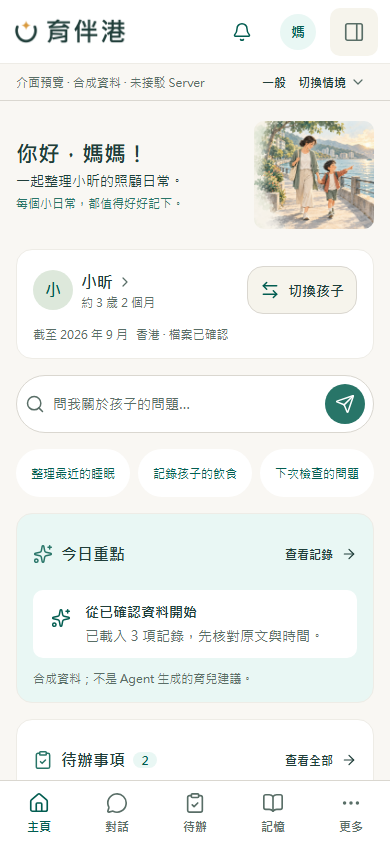
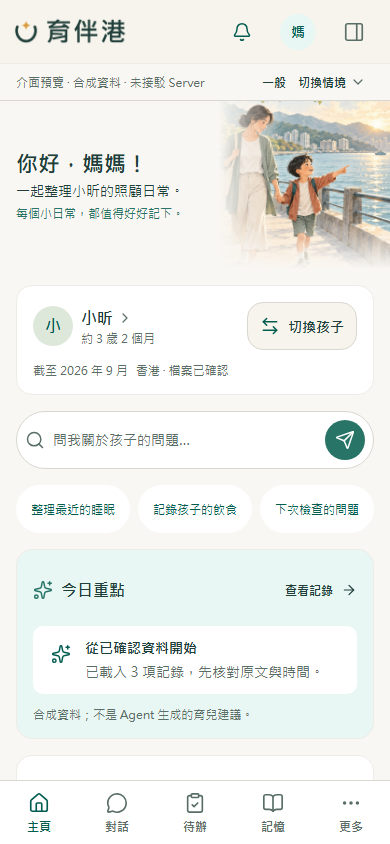
Use faded mobile hero background and unified shell surfaces

diff --git a/frontend/src/components/MobileHomeDashboard.tsx b/frontend/src/components/MobileHomeDashboard.tsx
@@ -1,6 +1,7 @@
-import { useState } from "react";
+import { useId, useState } from "react";
 import { Image, Pressable, ScrollView, StyleSheet, View, useWindowDimensions } from "react-native";
 import { Text } from "react-native-paper";
+import Svg, { Defs, LinearGradient, Rect, Stop } from "react-native-svg";
 import { AppIcon } from "./AppIcon";
 import type { HomeActions, HomeViewModel } from "../view-model";
 import { chineseFont, colors, mobileIcons, mobileLayout, mobileType, radius, spacing } from "../theme";
@@ -26,19 +27,37 @@ export function MobileHomeDashboard({ model, actions }: { model: HomeViewModel; 
   const viewportWidth = useWindowDimensions().width;
   const [quickWidth, setQuickWidth] = useState(0);
   const [childWidth, setChildWidth] = useState(0);
+  const greetingFadeId = useId();
+  const greetingBottomFadeId = `${greetingFadeId}-bottom`;
   const fourQuickColumns = quickWidth >= 290;
   const shortSwitch = childWidth ? childWidth < 300 : viewportWidth < 360;
   const splitAge = Boolean(child?.ageSummaryLabel && child?.ageReferenceLabel);
 
   return <ScrollView style={styles.scroll} contentContainerStyle={styles.page} keyboardShouldPersistTaps="handled">
-    <View style={styles.greeting}>
+    <View testID="mobile-home-greeting" style={styles.greeting}>
+      <View aria-hidden importantForAccessibility="no-hide-descendants" pointerEvents="none" style={StyleSheet.absoluteFill}>
+        <Image source={harbourArt} accessible={false} resizeMode="cover" style={styles.greetingArt} />
+        <Svg width="100%" height="100%" style={StyleSheet.absoluteFill} aria-hidden focusable={false}>
+          <Defs>
+            <LinearGradient id={greetingFadeId} x1={0} y1={0} x2={1} y2={0}>
+              <Stop offset={0} stopColor={colors.canvas} stopOpacity={1} />
+              <Stop offset={0.56} stopColor={colors.canvas} stopOpacity={1} />
+              <Stop offset={0.72} stopColor={colors.canvas} stopOpacity={0} />
+              <Stop offset={1} stopColor={colors.canvas} stopOpacity={0} />
+            </LinearGradient>
+            <LinearGradient id={greetingBottomFadeId} x1={0} y1={0} x2={0} y2={1}>
+              <Stop offset={0.7} stopColor={colors.canvas} stopOpacity={0} />
+              <Stop offset={1} stopColor={colors.canvas} stopOpacity={1} />
+            </LinearGradient>
+          </Defs>
+          <Rect width="100%" height="100%" fill={`url(#${greetingFadeId})`} />
+          <Rect width="100%" height="100%" fill={`url(#${greetingBottomFadeId})`} />
+        </Svg>
+      </View>
       <View style={styles.greetingCopy}>
         <Text accessibilityRole="header" style={styles.heading}>你好，{model.caregiverName}！</Text>
         <Text style={styles.subtitle}>{child ? `一起整理${child.displayName}的照顧日常。` : "先把基本資料整理好，再開始記錄。"}</Text>
         <Text style={styles.motto}>每個小日常，都值得好好記下。</Text>
-      </View>
-      <View aria-hidden importantForAccessibility="no-hide-descendants" style={styles.greetingArtFrame}>
-        <Image source={harbourArt} accessible={false} resizeMode="cover" style={styles.greetingArt} />
       </View>
     </View>
 
@@ -124,13 +143,12 @@ export function MobileHomeDashboard({ model, actions }: { model: HomeViewModel; 
 const styles = StyleSheet.create({
   scroll: { flex: 1, backgroundColor: colors.canvas },
   page: { padding: mobileLayout.pageInset, gap: mobileLayout.sectionGap, width: "100%", maxWidth: mobileLayout.breakpoint, alignSelf: "center" },
-  greeting: { paddingVertical: spacing.xs, flexDirection: "row", alignItems: "center", gap: spacing.md },
-  greetingCopy: { flex: 1, minWidth: 0, gap: spacing.xs },
+  greeting: { position: "relative", minHeight: 168, marginHorizontal: -mobileLayout.pageInset, marginTop: -mobileLayout.pageInset, paddingHorizontal: mobileLayout.pageInset, paddingVertical: spacing.lg, justifyContent: "center", overflow: "hidden" },
+  greetingCopy: { width: "60%", minWidth: 0, gap: spacing.xs },
+  greetingArt: { ...StyleSheet.absoluteFill, width: "100%", height: "100%" },
   heading: { fontFamily: chineseFont, color: colors.ink, ...mobileType.heading, fontWeight: "800" },
   subtitle: { fontFamily: chineseFont, color: colors.ink, ...mobileType.body },
   motto: { fontFamily: chineseFont, color: colors.teal, ...mobileType.caption },
-  greetingArtFrame: { width: "34%", maxWidth: 120, height: 108, borderRadius: radius.small, overflow: "hidden", alignItems: "flex-end" },
-  greetingArt: { width: 192, height: 108, flexShrink: 0 },
   childCardRow: { flexDirection: "row", alignItems: "center", gap: spacing.sm },
   identity: { flex: 1, minWidth: 0, minHeight: mobileLayout.touchTarget, flexDirection: "row", alignItems: "center", gap: spacing.sm },
   avatar: { width: mobileLayout.childAvatar, height: mobileLayout.childAvatar, borderRadius: radius.pill, backgroundColor: colors.sage, alignItems: "center", justifyContent: "center" },

diff --git a/frontend/src/components/AppShell.tsx b/frontend/src/components/AppShell.tsx
@@ -231,7 +231,7 @@ const styles = StyleSheet.create({
   accountHint: { fontFamily: chineseFont, color: colors.muted, fontSize: typeScale.caption },
   accountArrow: { color: colors.deepTeal, fontSize: typeScale.title },
   stage: { flex: 1, minWidth: 0, minHeight: 0 },
-  topbar: { height: 70, backgroundColor: colors.white, borderBottomWidth: 1, borderBottomColor: colors.softLine, paddingHorizontal: spacing.xl, flexDirection: "row", alignItems: "center", gap: spacing.lg },
+  topbar: { height: 70, backgroundColor: colors.sidebar, borderBottomWidth: 1, borderBottomColor: colors.softLine, paddingHorizontal: spacing.xl, flexDirection: "row", alignItems: "center", gap: spacing.lg },
   topbarCompact: { height: 64, paddingHorizontal: spacing.md, gap: spacing.sm },
   topbarTiny: { paddingHorizontal: spacing.sm, gap: spacing.xs },
   topBrandLink: { width: 124, height: 44, alignItems: "center", justifyContent: "center", marginRight: "auto" },
@@ -243,7 +243,7 @@ const styles = StyleSheet.create({
   infoActionTiny: { minWidth: 38, minHeight: 40 },
   panelIcon: { width: 20, height: 17, borderWidth: 1.7, borderColor: colors.deepTeal, borderRadius: 4, alignItems: "flex-end", justifyContent: "center" },
   panelIconDivider: { width: 6, height: 15, borderLeftWidth: 1.7, borderLeftColor: colors.deepTeal },
-  compactFacts: { minHeight: 52, paddingHorizontal: spacing.md, paddingVertical: spacing.xs, gap: spacing.md, flexDirection: "row", alignItems: "center", backgroundColor: colors.white, borderBottomWidth: 1, borderBottomColor: colors.softLine },
+  compactFacts: { minHeight: 52, paddingHorizontal: spacing.md, paddingVertical: spacing.xs, gap: spacing.md, flexDirection: "row", alignItems: "center", backgroundColor: colors.sidebar, borderBottomWidth: 1, borderBottomColor: colors.softLine },
   menuDialog: { maxWidth: 400 },
   previewArea: { backgroundColor: colors.previewSurface, borderBottomWidth: 1, borderBottomColor: colors.line },
   previewLine: { minHeight: 36, paddingHorizontal: spacing.lg, flexDirection: "row", alignItems: "center", justifyContent: "space-between", gap: spacing.sm },

diff --git a/frontend/src/components/NativeAppShell.tsx b/frontend/src/components/NativeAppShell.tsx
@@ -51,7 +51,7 @@ export function NativeAppShell({ children }: { children: ReactNode }) {
 }
 const styles = StyleSheet.create({
   root: { flex: 1, backgroundColor: colors.canvas },
-  header: { minHeight: mobileLayout.headerMinHeight, paddingHorizontal: spacing.md, flexDirection: "row", alignItems: "center", justifyContent: "space-between", gap: spacing.sm },
+  header: { minHeight: mobileLayout.headerMinHeight, backgroundColor: colors.sidebar, paddingHorizontal: spacing.md, flexDirection: "row", alignItems: "center", justifyContent: "space-between", gap: spacing.sm },
   brand: { flexShrink: 1, minWidth: 0, justifyContent: "center", minHeight: 48 },
   logo: { width: 124, height: 44 },
   actions: { flexDirection: "row", alignItems: "center", gap: spacing.sm },
@@ -59,7 +59,7 @@ const styles = StyleSheet.create({
   avatar: { width: 36, height: 36, borderRadius: radius.pill, backgroundColor: colors.teal, justifyContent: "center", alignItems: "center" },
   initial: { fontFamily: chineseFont, color: colors.white, fontSize: typeScale.body, fontWeight: "700" },
   railButton: { width: mobileLayout.touchTarget, height: mobileLayout.touchTarget, alignItems: "center", justifyContent: "center", borderRadius: radius.small, backgroundColor: colors.quietSurface },
-  childStrip: { flexDirection: "row", alignItems: "center", gap: spacing.sm, paddingHorizontal: spacing.md, paddingBottom: spacing.sm },
+  childStrip: { flexDirection: "row", alignItems: "center", gap: spacing.sm, paddingHorizontal: spacing.md, paddingBottom: spacing.sm, backgroundColor: colors.sidebar },
   content: { flex: 1 },
   notice: { backgroundColor: colors.paleAmber, paddingHorizontal: spacing.lg, paddingVertical: spacing.sm },
   meta: { fontFamily: chineseFont, color: colors.muted, fontSize: typeScale.caption, lineHeight: 20 },

diff --git a/frontend/STATUS.md b/frontend/STATUS.md
@@ -16,7 +16,7 @@
 | FE-W09 Agent 對話投影 | 基於 `83106c0`；核對主線 `90dacd4` 的 Agent API／Panel／Inbox。共用運行、完整候選、明確共享、原決定查核／重試、來源快照與手動私人結果已實作，四尺寸及建置通過 | [AGENT_HANDOFF](AGENT_HANDOFF.md)；composer 仍只預覽輸入，真聊天／回覆／引用／跨頁同步待主聊天沿原控制器接線 |
 | FE-W10 手機比例與密度 | 依最新意見及手機參考，復用 Paper 5.15.3 MD3：主標 22、區塊 16、正文 14–16、次層 12、SVG 20–24，主要控制觸控至少 48；孩子卡片 390／320 均 110 高，快捷格 88。40 個重排、手機關鍵互動／150% Web 文字及 Web／Android export 通過 | [MOBILE_DESIGN](MOBILE_DESIGN.md)；等待視覺比較與原生實機。色階／業務規則未改，正式接線仍由主聊天統籌 |
 | FE-W11 照片與記錄 | 原圖選擇／hash／預覽、私人保存、提取同意／候選、人工原文、明確家庭共享、原操作查核、版本／刪除／清理及範圍清除已實作；三項原文單元、44 個重排及照片／手機互動通過 | [PHOTOS_HANDOFF](PHOTOS_HANDOFF.md)；真附件／模型／原生選圖 adapter 及使用者視覺待接線／驗收 |
-| FE-W12 手機問候美術修訂 | 按使用者 2026-10-01 意見，以桌面主頁同一張海旁家庭插畫取代問候小草圖標；390／320、150% Web 文字、typecheck 及 Web／Android export 通過，沿用 draft PR #73 | [MOBILE_DESIGN](MOBILE_DESIGN.md)；品牌裝飾共用於手機 Web／RN 畫面，待視覺及真機驗收 |
+| FE-W12 手機背景及外殼層次 | 按使用者 2026-10-01 意見，海旁家庭插畫鋪滿問候背景，左側及底部漸淡；頂部／孩子摘要列與側欄同色，現有 OKLCH 色階未改。44 個外殼重排、最終 390／320／150% Web 文字、typecheck 及 Web／Android export 通過，沿用 draft PR #73 | [MOBILE_DESIGN](MOBILE_DESIGN.md)／[COLOR_STRATEGY](COLOR_STRATEGY.md)；背景及表面規則已補既有 Skill，待使用者視覺及真機驗收 |
 | 尚未投影的已合併畫面 | GitHub master `ce87370` 已有分享、成長關注、到診摘要、主動聯絡及新增的本人模型 key／可調上限；正式 P2 結案已合併 | FE-W11 後逐項投影；正式整合、未讀及產品整包狀態由主聊天統籌 |
 
 ## 已驗證及限制
@@ -35,4 +35,4 @@
 
 先讀本文件、[PLAN](PLAN.md) 及 [HANDOFF](HANDOFF.md)，fetch GitHub 並核對其他 active worktree 的 frontend 重疊。現場分支 `codex/fe-w11-photos`，已 review 的前置 `596c657`（FE-W10 draft PR #70）；直接從 GitHub 讀 P2 UI 交接，再讀照片 API／型別／封裝，交付前已重核最新 master `ce87370`，照片章節及型別／封裝未變，沒有依賴主聊天本機是否已拉取。另外 14 個 active worktree 未見 frontend 重疊；P2 隔離接續沒有豁免正式合併／驗收。B 負責前端交付，使用 `CherylNg-2526` 核對及推送，保留真實 Committer，不改全局認證或 Git 身份。
 
-讓使用者比較 [390 問候插畫](verification/fe-w12/home-390.png)、[320](verification/fe-w12/home-320.png) 及 [桌面照片](verification/fe-w11/photos-1440.png)。FE-W12 的 [手機必要檢查](verification/fe-w12/checks-mobile-density.json)／[建置](verification/fe-w12/build-checks.json) 通過；FE-W11 三項照片原文單元及 44 個重排／照片互動沿用未變部分，沒有機械重跑。下一包先補 GitHub 已交付的本人模型 key／可調上限設定，再投影分享、成長、摘要及主動聯絡；真接線、正式驗收及 P3 真機仍由主聊天統籌，不自行 merge。
+讓使用者比較 [桌面層次](verification/fe-w12/home-1440.png)、[390 背景插畫](verification/fe-w12/home-390.png)、[320](verification/fe-w12/home-320.png) 及 [桌面照片](verification/fe-w11/photos-1440.png)。FE-W12 的 [44 個外殼重排](verification/fe-w12/checks-layout-mobile-density.json)、[最終手機檢查](verification/fe-w12/checks-mobile-density.json)／[建置](verification/fe-w12/build-checks.json) 通過；最後圖片尺寸修正只再驗手機受影響範圍，其他頁及 FE-W11 照片規則沿用未變證據。下一包先補 GitHub 已交付的本人模型 key／可調上限設定，再投影分享、成長、摘要及主動聯絡；真接線、正式驗收及 P3 真機仍由主聊天統籌，不自行 merge。

diff --git a/frontend/PLAN.md b/frontend/PLAN.md
@@ -15,7 +15,7 @@
 | 7c | FE-W09 Agent 對話投影 | 實作及輕量檢查完成；待視覺／接線 | 基於 `83106c0`，分支 `codex/fe-w09-agent-conversation`，正式契約核對 `90dacd4`。運行／候選／來源及手動私人背景結果、明確共享與原決定查核已實作；四尺寸關鍵合成互動、Web／Android export 通過。真 composer 保存／要求回覆沿原 ChatController 待接線；入口見 [AGENT_HANDOFF](AGENT_HANDOFF.md) |
 | 7d | FE-W10 手機比例與密度 | 實作及輕量檢查完成；待視覺／真機驗收 | 前置已 review 的 FE-W09 `0ff9533`（draft PR #69），分支 `codex/fe-w10-mobile-density`。核對 Android／Apple／Paper 5.15.3 MD3 與 Lucide：集中手機字級／圖標／觸控及卡片規則，調整孩子年齡／基準、標題動作、快速記錄與窄 composer；10 頁四尺寸及必要手機互動／150% Web 文字、Web／Android export 通過。研究存 [MOBILE_DESIGN](MOBILE_DESIGN.md) 並補既有 Skill；沒有改色階或後端 |
 | 7e | FE-W11 照片與記錄前端 | `ddcf651`／draft PR #73 已交付；待視覺／正式接線 | 前置 FE-W10 `596c657`（draft PR #70），分支 `codex/fe-w11-photos`。直接讀 GitHub master 的 P2 UI 交接及照片契約，交付前重核 `ce87370` 未改照片章節／型別／封裝；原圖／私人保存／候選／人工原文／家庭共享／查核及刪除投影、Web 選圖與原生薄 port 已實作。三項原文單元、11 頁四尺寸、必要照片／手機互動及 Web／Android export 通過；真 API／原生選圖／裝置權限待主聊天 |
-| 7f | FE-W12 手機問候美術 | 實作及輕量檢查通過，追加現有 draft PR #73 | 依使用者 2026-10-01 意見，問候右側改用桌面主頁同一張海旁家庭插畫。前置 `933530a`，沿同一前端 draft 分支；390／320、150% Web 文字、typecheck、Web／Android export 通過，沒有新增依賴或單元測試 |
+| 7f | FE-W12 手機背景及外殼層次 | 實作及輕量檢查通過，追加現有 draft PR #73 | 依使用者 2026-10-01 意見，手機問候使用全幅海旁背景與左側／底部漸淡；常駐頂部／側欄同色，沿現有 OKLCH 表面角色。修訂基線 `685cdfc`，沿同一前端 draft 分支；44 個外殼重排、最終 390／320／150% Web 文字、typecheck、Web／Android export 通過，沒有新增依賴或單元測試 |
 | 7g | 本人模型設定及後續投影 | 按契約逐包接續 | GitHub `ce87370` 已有本人模型 key／可調上限、分享、成長關注、到診摘要及主動聯絡。本人模型設定已直接讀 UI-P2-18／API／型別，先完成其前端，再處理其餘投影；未讀／正式通知中心仍按產品契約確認，真整合、必要驗收及整包狀態由主聊天統籌 |
 | 8 | Web 整套確認與正式接線 | 待主聊天及使用者 | 使用者比較全部 Web 畫面並明確確認；主聊天按 [HANDOFF](HANDOFF.md) 對正式 App 的既有 API／控制器接線與真服務驗收。未接通 P2 功能須等其業務包交付，不以預覽代替 |
 | 9 | FE-W06 手機軟件介面 | 源碼及 bundle 完成；待視覺及真機驗收 | 按使用者 2026-09-29 指示提前做手機畫面；手機首頁依參考圖的品牌／問候、孩子卡片、提問、重點、待辦、快捷記錄及底部導航組裝。共用 React Native 元件、Expo Router Tabs／Safe Area／鍵盤及最終 Android bundle 通過；正式 P3 接線／APK／實機驗收仍待主聊天及後續條件 |

diff --git a/frontend/.agents/skills/web-screen-delivery/references/theme-and-svg.md b/frontend/.agents/skills/web-screen-delivery/references/theme-and-svg.md
@@ -1,9 +1,11 @@
 # 品牌主題與 SVG 圖標
 
-適用 frontend 的 Paper 5.15.3／Expo 57.0.24／Lucide React Native 1.49.0／react-native-svg 15.15.4。最後核對：2026-09-30；只在修改主題、彈窗、選單或圖標時讀。產品／狀態語義沿根契約。
+適用 frontend 的 Paper 5.15.3／Expo 57.0.24／Lucide React Native 1.49.0／react-native-svg 15.15.4。最後核對：2026-10-01；只在修改主題、彈窗、選單、圖標或背景漸變時讀。產品／狀態語義沿根契約。
 
 - 配色先讀 assets/BRIEF.md 及 frontend/COLOR_STRATEGY.md。執行色值集中 theme.ts；保持品牌來源及語義角色，不逐頁加 HEX 或因參考圖而另造品牌色。OKLCH 用於有用途的候選色及明暗色階，色相旋轉不保證語義、色域或對比。原生輸出用已核對的 sRGB HEX。
 - 色階與放置分開判斷。沿 Material／Carbon／Atlassian 的用途分工：畫布及常駐側欄用中性色，內容卡片／彈窗用白色，次要操作及普通 SVG 保持中性；品牌色集中於主要操作和選中，琥珀／珊瑚只作相應狀態。用留白、字級、邊界和少量表面層次建立主次，不能將每個標題／圖標／卡片都染成主色。成熟方案提供角色原則，不覆蓋育伴港品牌色或產品語義。
+- 同一常駐導航區的頂部／側欄沿用 sidebar，內容畫布及白色卡片按用途分層。Carbon 的 light layers 可交替，dark layers 才逐層變亮；不為模仿層次而每個區域另造色值。
+- 全幅品牌背景沿 RN Image 配現有 SVG LinearGradient：Defs 內以 useId 產生唯一 id，Rect 透過 fill URL 引用；Stop 使用既有 canvas token 及 stopOpacity，橫向漸淡保護文字，必要時加底部漸淡接回畫布。Image 明確設 100% 寬高／cover；RN Web 0.21.2 實測只設 absoluteFill 仍保留靜態素材 1672×941 原尺寸，須檢查實際人物構圖而不只看無溢出。背景 pointerEvents=none、略過朗讀及焦點；文字可換行、容器以 minHeight 隨大字體增高。官方 API 已核對：[SVG LinearGradient](https://github.com/software-mansion/react-native-svg/blob/main/USAGE.md#lineargradient)，執行證據見 frontend/verification/fe-w12；Web 截圖不當作原生實機通過。
 - MD3 的 primary 不會自動更新其餘 surface／elevation／on*／backdrop／disabled 色。完整覆蓋品牌角色，不能遺留預設紫色。Paper 5.15.3 的 Dialog 使用 7 × roundness；roundness 保持倍率基數 4，AppDialog 用共用卡片 radius.large，不能將 16 px 卡片圓角直接當倍率。
 - 反覆導航選單沿 AppMenuList；左圖标、文字、右箭嘴及觸控高度一致。彈窗標題、白底、圓角及 Actions 集中 AppDialog，沿原 RN Modal 焦點／Escape，不以逐頁 CSS 修補 Paper internals。
 - 圖標沿 AppIcon 的 Lucide 公開單圖標入口 `lucide-react-native/icons/<canonical-name>` 和統一 stroke／尺寸 token；PaperProvider 的 settings.icon 同樣指向 PaperSvgIcon。新增名稱補同一映射，不載入全量索引。1.49.0 的 CircleHelp／History／Trash2 是別名，實際入口是 circle-question-mark／rotate-ccw-clock／trash；按已安裝套件 exports 及 esm 入口核對，不能由 TypeScript 別名猜路徑。Lucide 採 ISC，部分 Feather 來源採 MIT；react-native-svg 採 MIT。

diff --git a/frontend/COLOR_STRATEGY.md b/frontend/COLOR_STRATEGY.md
@@ -15,7 +15,7 @@ OKLCH 的 L／C／h 分別描述感知明度、彩度及色相，方便有規則
 | 角色 | 本次規則 | 原因 |
 |---|---|---|
 | 畫布 | paper 派生的 neutralSurface #F9F7F3 | 作為內容的中性底，不與主操作爭注意力 |
-| 左導覽／右資訊欄 | paper 派生的 quietSurface #F6F4EC | 常駐區較安靜；品牌暖白 #FAF7EF 留在首頁品牌／海旁美術區 |
+| 左導覽／頂部欄／右資訊欄 | paper 派生的 quietSurface／sidebar #F6F4EC | 同一常駐導覽區沿用相同底色；品牌暖白 #FAF7EF 留在首頁品牌／海旁美術區 |
 | 卡片／彈窗 | 白色；暖灰裝飾分隔 | 讓內容層次來自留白、邊界及字級 |
 | 主要操作 | teal；強調入口用同色相較深的 deepTeal | 集中使用綠色標示可操作入口 |
 | 文字 | ink 作主要文字；muted 種子降低 L 得到可讀的次要文字 | 小字在暖白及淡色容器上仍可辨讀 |
@@ -31,6 +31,7 @@ OKLCH 的 L／C／h 分別描述感知明度、彩度及色相，方便有規則
 使用者認為色階已改善，但放置仍不順眼。本次保留同一組 OKLCH 派生值，重新分配用途。成熟方案的共通點是讓大部分內容、導航和次要操作使用中性色，再以品牌色及狀態色表達少量明確意義；不是把每張卡片、每個圖標或每個連結都染成品牌色。[Atlassian 色彩角色及強度](https://atlassian.design/foundations/color)、[Carbon 層次與色彩角色](https://carbondesignsystem.com/elements/color/overview/)
 
 - 常駐側欄採較安靜的中性暖灰，主畫布稍亮，資料卡片和彈窗採白色。各區靠留白、邊界及字級區分；不將「增加色塊」當作增加層次。這是沿成熟方案的角色分工作本項目映射，沒有照搬它們的品牌色。[Atlassian elevation](https://atlassian.design/foundations/elevation)、[Material 3 surface／container](https://developer.android.com/codelabs/m3-design-theming?hl=en)
+- 頂部欄、窄屏孩子摘要列及原生頂部沿用左導覽的 sidebar 色；內容卡片保持白色，讓常駐導航、主畫布、內容形成穩定層次。Carbon 的淺色主題可交替使用白與 Gray 10，深色主題才逐層變亮；本項目按表面用途映射，不把層次誤當成所有主題都必須單向變亮。[Carbon layering](https://carbondesignsystem.com/elements/color/overview/)
 - 主要提交／對話入口使用 teal／deepTeal；次要按鈕、一般連結及孩子摘要用 ink，普通圖標用 muted。選中的導航和有效焦點才用淡青綠容器。
 - 首頁品牌美術區保留 paper；手機「今日重點」用 paleTeal，讓其位置有清楚視覺主次。內頁說明、記憶內容、預覽工具維持中性。
 - 琥珀只對應待確認／結果未知，珊瑚只對應明確失敗。不同狀態仍須文案與操作區分；「結果未知」不能靠改色變成已知失敗。

diff --git a/frontend/HANDOFF.md b/frontend/HANDOFF.md
@@ -40,11 +40,11 @@
 
 必要 typecheck、三項照片原文／數值單元、Web 25 路由／Android Hermes 31 資產 export、44 個重排及照片／手機關鍵互動通過，沒有 pageerror、console.error 或 API 請求。見 [checks](verification/fe-w11/checks-layout-photos-mobile-density.json)／[build-checks](verification/fe-w11/build-checks.json)；[1440 照片](verification/fe-w11/photos-1440.png)／[320 草稿](verification/fe-w11/photos-320-manual-review.png)。未知結果、刪除清理、私人候選、原文與 scope 清除等語義須按照片交接保留；正式 UI 接線及原生實機未驗。
 
-### FE-W12 手機問候插畫增補
+### FE-W12 手機背景及外殼層次增補
 
-按使用者 2026-10-01 意見，以桌面主頁的海旁家庭美術取代 MobileHomeDashboard 的小草圖標；前置 `933530a`，這個小修訂沿現有 draft PR #73 交付。原圖在 `assets/images/harbour-family-hero.png`，文字可換行、人物靠右呈現，裝飾略過朗讀及鍵盤。使用現有 RN Image／品牌素材，不涉及資料或 API 接線。
+按使用者 2026-10-01 意見，以桌面主頁的海旁家庭美術鋪滿 MobileHomeDashboard 問候區背景；基線 `685cdfc`，沿現有 draft PR #73 交付。原圖在 `assets/images/harbour-family-hero.png`，文字可換行；RN Image 100% 寬高／cover 配 SVG 漸變，左側淡至 canvas、底部接回畫布，裝飾不攔截操作或朗讀。AppShell 的 topbar／compactFacts 及 NativeAppShell 的 header／childStrip 使用相同 sidebar 色；只重新安排現有表面角色，沒有新增色值或資料接口。
 
-typecheck、Web 25 路由／Android Hermes 31 資產 export 及 390／320／150% Web 文字、必要手機互動通過；[證據](verification/fe-w12/build-checks.json)／[390](verification/fe-w12/home-390.png)／[320](verification/fe-w12/home-320.png)，真機及視覺仍待驗。下一包接續已從 GitHub 讀取的本人模型設定契約，輸入／模式／費用同意與 unknown 不重播等語義按 UI-P2-18 核對。
+typecheck、Web 25 路由／Android Hermes 31 資產 export、44 個共用外殼重排通過；最終圖片尺寸修正後重驗 390／320／150% Web 文字及必要手機互動。其他頁和照片規則沿用未變範圍，不新增單元測試。[證據](verification/fe-w12/build-checks.json)／[桌面](verification/fe-w12/home-1440.png)／[390](verification/fe-w12/home-390.png)／[320](verification/fe-w12/home-320.png)，真機及使用者視覺仍待驗。下一包接續已從 GitHub 讀取的本人模型設定契約，輸入／模式／費用同意與 unknown 不重播等語義按 UI-P2-18 核對。
 
 ## 共用元件與成熟方案
 

diff --git a/frontend/DESIGN_SYSTEM.md b/frontend/DESIGN_SYSTEM.md
@@ -4,7 +4,7 @@
 
 ## 共通設計語言
 
-- paper 派生的中性色作畫布，較安靜的暖灰承載常駐側欄，白色承載資料卡片與彈窗；品牌暖白保留在首頁美術區。青綠集中於主要操作、選中及重點；普通文字／次要操作用 ink，普通 SVG 用 muted。琥珀代表待確認／結果未知，珊瑚代表明確失敗；顏色必配文字。OKLCH 派生、成熟方案的角色分工和對比門檻沿 [配色策略](COLOR_STRATEGY.md)。
+- paper 派生的中性色作畫布，常駐側欄、頂部欄及窄屏孩子摘要列沿用同一暖灰，白色承載資料卡片與彈窗；品牌暖白保留在首頁美術區。青綠集中於主要操作、選中及重點；普通文字／次要操作用 ink，普通 SVG 用 muted。琥珀代表待確認／結果未知，珊瑚代表明確失敗；顏色必配文字。OKLCH 派生、成熟方案的角色分工和對比門檻沿 [配色策略](COLOR_STRATEGY.md)。
 - 一個頁面只有清楚的主標題，下面用短說明交代資料範圍；卡片標題、內容、來源／時間次序固定。對話有訊息氣泡、來源區和底部輸入；設定有分頁、資料列及明確未保存提示；登入以品牌故事與表單分區。
 - 寬桌面用左導覽、主內容、常駐右資訊欄。設定與用戶固定在左下；右欄可關閉及重開。中寬或窄視窗的右欄改為可開啟面板，手機瀏覽器用底部導覽與「更多」入口，不遺失家庭／記憶／設定路由。
 - 右資訊欄先顯示目前孩子與待辦摘要，再顯示已確認記錄及原操作狀態。待辦示例的勾選只在本地預覽有效；頂部鈴鐺的角標只代表需留意的原操作狀態，不代表通知已送達或未讀。窄視窗保留鈴鐺及資訊面板入口，帳戶入口放在底部「更多」。
